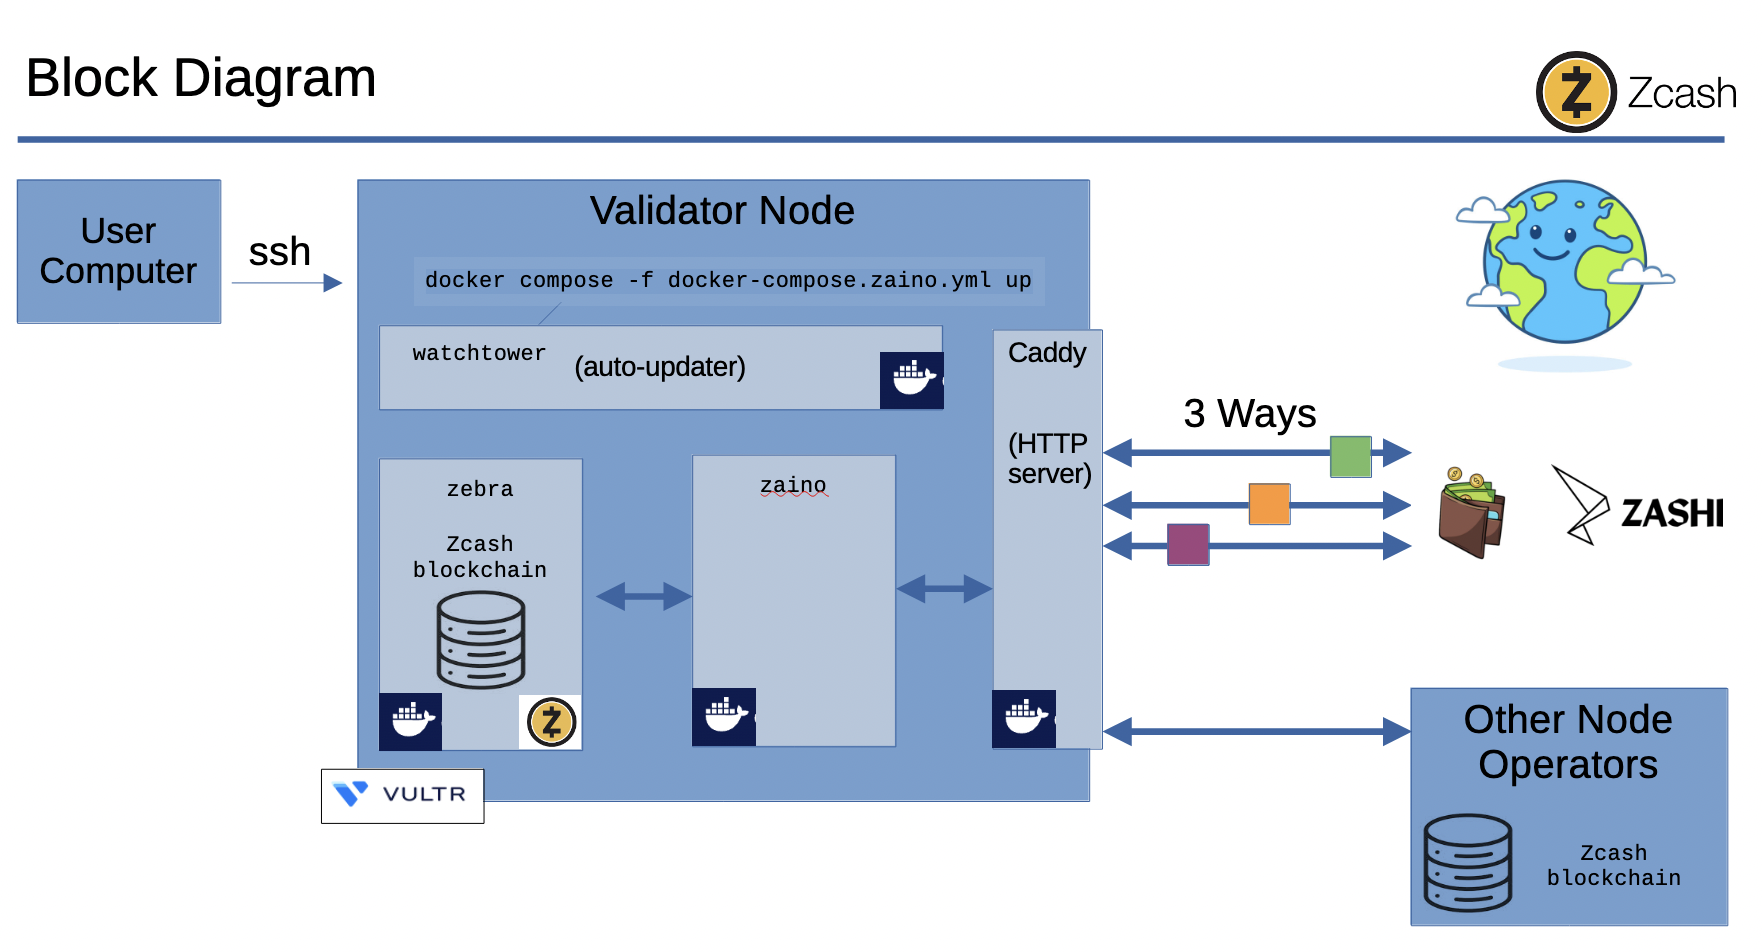
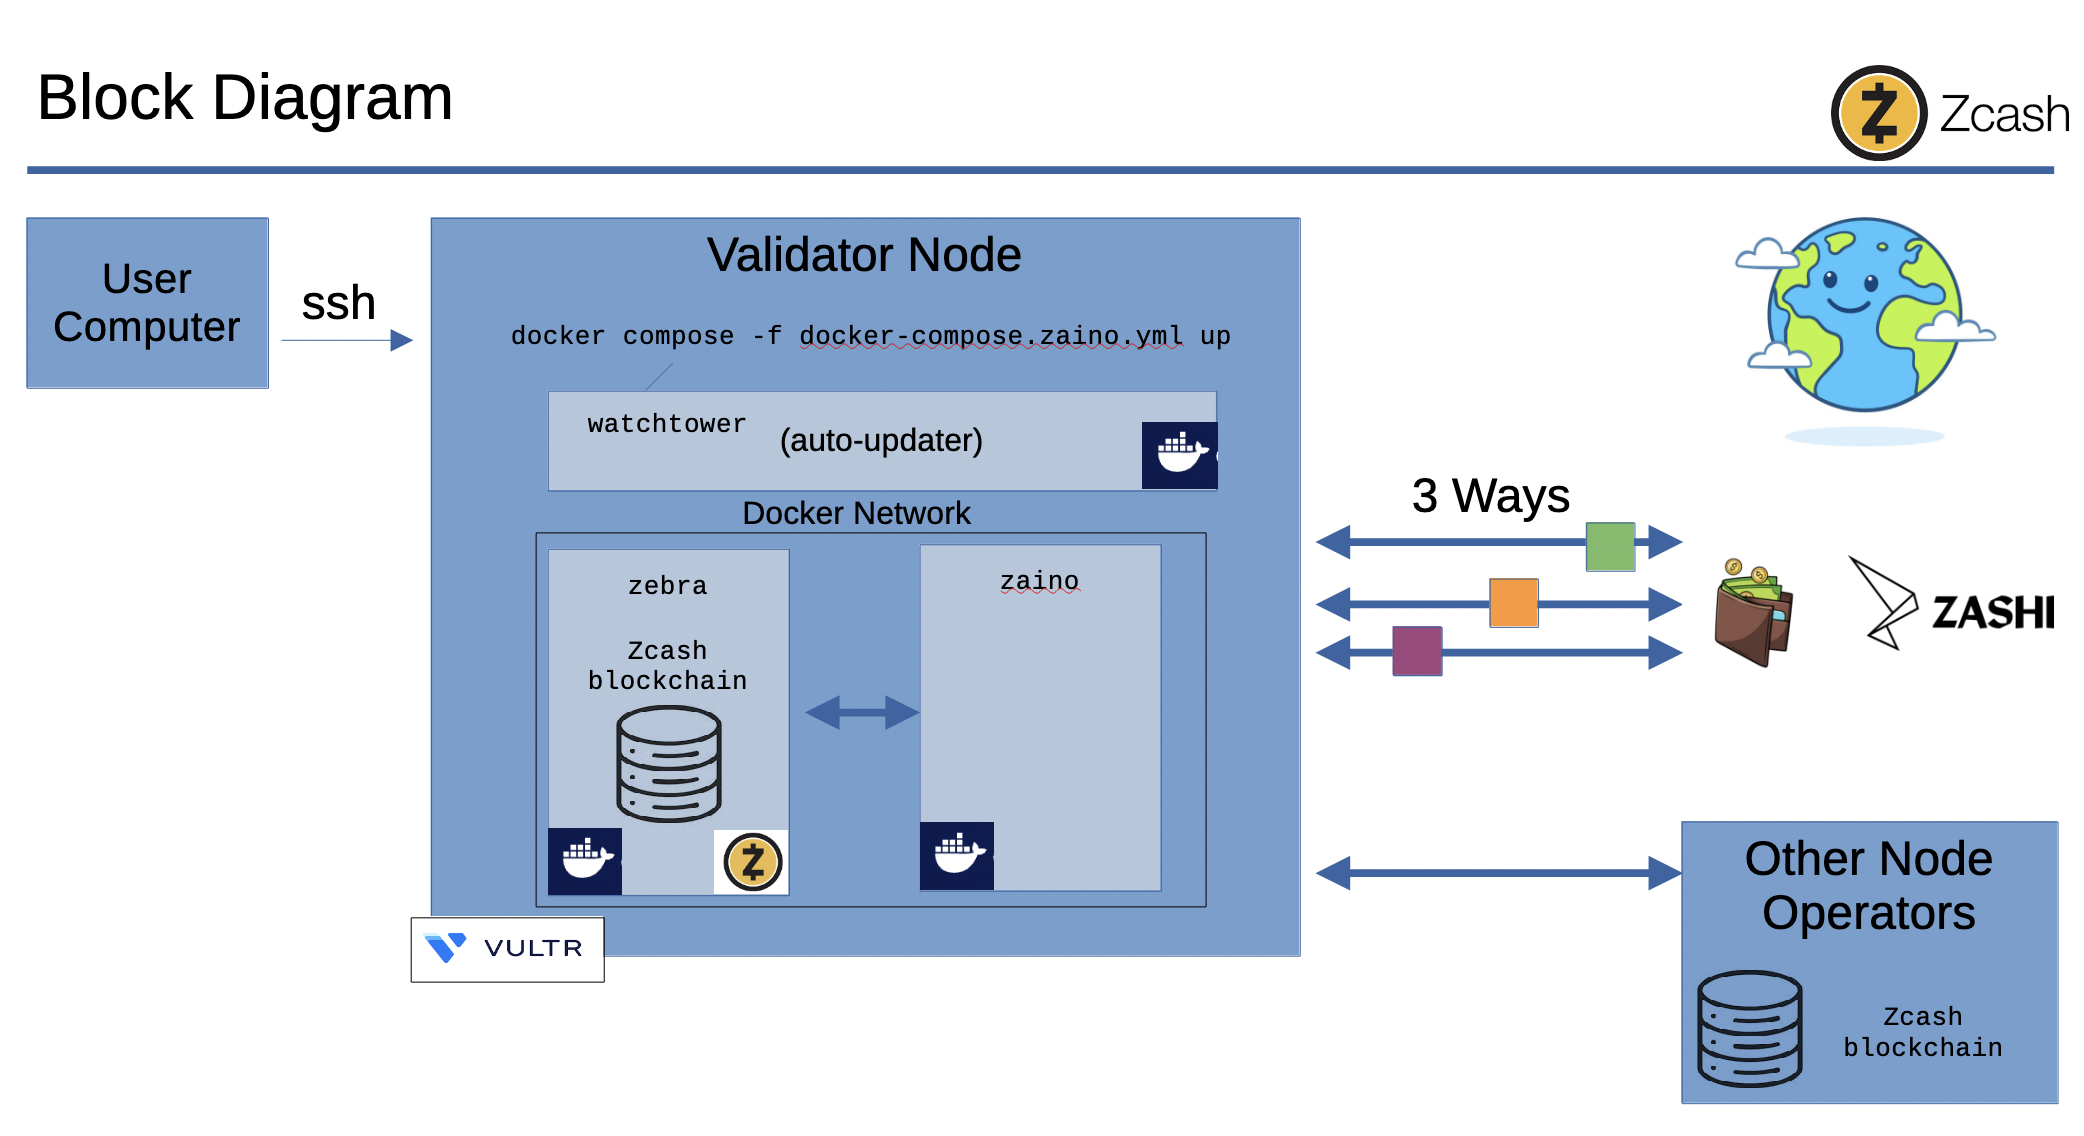
Updated focusing on refine the docker specific documentation.

diff --git a/docker/README.md b/docker/README.md
@@ -1,25 +1,30 @@
 # Docker Zcash Light Wallet
 
+Welcome to the Docker-side of this Zcash node hosting repository. 
+
+> [!NOTE]
+> If you came from [class-1-sync](../docs/class-1-sync.md): great!
+> If not, don't skip our [workshop overview](../docs/README.md).
+
 ## Overview of the Components
-![Block diagram ](block_diagram2.png)
+Let's start with an overview of each component, and a summary of what they do. 
+![Block diagram](../docs/images/block_diagram.png)
 
 Zebra is an independent, Rust-based implementation of the Zcash node software, developed by the Zcash Foundation. It is designed for security, correctness, and performance. Zebra fully validates the Zcash blockchain, handles peer-to-peer networking, and implements consensus rules, making it suitable for running validator nodes and contributing to the decentralization and resilience of the Zcash network.
 
 Zaino is a lightweight codebase in GO for building Zcash-related infrastructure. Its design emphasizes clear interfaces and extensibility, making it an interface between Zebra node software and lightwallets, auditing services, and other ecosystem tools.
 
-Caddy is a modern, easy-to-use web server and reverse proxy that automatically manages HTTPS certificates. It will be used to securely expose our Zcash nodes to the internet with minimal configuration.
-
 Watchtower is an automated tool for monitoring and updating running Docker containers. It ensures your Zcash node and related services stay up-to-date by automatically pulling and applying new container images with minimal downtime.
 
 Zashi is a lightweight, open-source Zcash lightwallet app designed for privacy and ease of use. It could connect your own node to the Zcash blockchain, allowing you to manage Zcash funds securely from your desktop or mobile device.
 
-## Install Docker on your server/VM and check out this source code repository.
+## Getting Started
+
+Install Docker on your server/VM and check out this source code repository.
 
 ```
 git clone https://github.com/zecrocks/zcash-stack.git
 cd zcash-stack/docker
-docker compose up
-# Or, try it with Zaino, the replacement for lightwalletd: (don't do both)
 docker compose -f docker-compose.zaino.yml up
 ```
 
@@ -27,66 +32,63 @@ To run deattached in the background even if ssh connection drops:
 ```
 docker compose -f docker-compose.zaino.yml up --detach
 ```
-
-## Troubleshooting and Docker Down
-- Stop and remove all containers, networks, and volumes for this project
-```
-docker compose -f docker-compose.zaino.yml down -v --remove-orphans
-```
-
-- Remove all unused containers, networks, images, and volumes
-```
-docker system prune -a --volumes -f
-```
-
-- Remove any remaining volumes specifically
-```
-docker volume prune -f
-```
-
-- Remove any remaining networks
-```
-docker network prune -f
-```
-
-- Restart Docker daemon (optional but can help with network issues)
-```
-systemctl restart docker
-```
-
-- Docker composer down
+To stop the system, but with removing the volumes that get created. 
 ```
 docker compose -f docker-compose.zaino.yml down
 ```
 
-- All together now!
+## Troubleshooting and Docker Down
+As happens in life, there are often troubles and times when a clean start is desired. Here are some helpful debugging options for stopping the Docker continers. 
+
+Stop and remove all containers, networks, and volumes for this project
+```
+docker compose -f docker-compose.zaino.yml down -v --remove-orphans
+```
+
+Remove all unused containers, networks, images, and volumes
+```
+docker system prune -a --volumes -f
+```
+
+Remove any remaining volumes specifically
+```
+docker volume prune -f
+```
+
+Remove any remaining networks
+```
+docker network prune -f
+```
+
+Restart Docker daemon (optional but can help with network issues)
+```
+systemctl restart docker
+```
+
+All together now! Hard removal of everything.
 ```
 docker compose -f docker-compose.zaino.yml down -v --remove-orphans && docker system prune -a --volumes -f && docker volume prune -f && docker network prune -f
 ```
 
-
 ## Sync the Blockchain
-### Lengthy Process
-The blockchain will be synced into the ```data``` directory, which can be useful for copying it to other devices.
+> [!NOTE] 
+> This Docker file will begin to sync the blockchain.
 
-It will take several days to sync depending on the speed of your computer and internet connection.
+When the Docker containers are started and running properly for the first time, they will begin to sync the blockchain. This means re-verifying each block in the entire chain. As you might imagine, this takes quiet some time. Here too, there are options. 
 
-### Speedy Process
-In a hurry? We host a snapshot of the blockchain that you can download faster than synchronizing it from scratch. It's not the purest way to synchronize, but it can save you over a week - especially if you are on a slow device.
+### Lengthy Process: Let it Run
+You could let the containers run, and sync the blockchain as designed. The blockchain will be synced into the ```data``` directory, which can be useful for copying it to other devices.
 
+It will take several days to sync depending on the speed of your computer and internet connection. This is the most secure way of doing it.
+
+### Speedy Process: Download a Snapshot
+In a hurry? We host a snapshot of the blockchain that you can download faster than synchronizing it from scratch. It's not the purest way to synchronize, as you are trusting (aka assuming) that this snapshot is accurate, but it can save you over a week - especially if you are on a slow device.
+
+Run the [`download-snapshot.sh`](download-snapshot.sh) first, then Docker compose up.
 ```
-# Run this to download our blockchain snapshot, then run "docker compose up" after it is complete.
 ./download-snapshot.sh
-```
-## Connect your node to the world
-To connect to it from a wallet, you'll need to expose lightwalletd's port to the world.
-
-There are several ways to do this. The quickest is to use Tailscale Funnel or Cloudflare Tunnel.
-
-For Cloudflare Tunnel, [after installing it](https://developers.cloudflare.com/cloudflare-one/connections/connect-networks/downloads/), run this:
-
-```
-cloudflared tunnel --url http://localhost:9067
+docker compose -f docker-compose.zaino.yml up
 ```
 
-This is a work in progres. More detailed instructions are on the way!
+## Next Steps
+Take a look at our documentation in [class-2-connect](../docs/class-2-connect.md) to learn about connecting your new node to the world. 🌎

diff --git a/docs/README.md b/docs/README.md
@@ -6,7 +6,7 @@ The [`docs` folder contains workshop documentation](./docs/) and is organized in
     1. Set up a virtual machine (VM) on hardware of your choice.
     1. Launch the Zcash service containers via Docker or Kubernetes on your VM.
         - Clone our [workshop Git repository](https://github.com/zecrocks/zcash-stack).
-        - Or [our competitors' repository](https://github.com/stakeholdrs/zcash-infra).
+        - Or [our friendly-competitor's repository](https://github.com/stakeholdrs/zcash-infra).
     1. Synchronize your node with the Zcash network's blockchain (from scratch in ~10 days or from [`download-snapshot.sh`](../docker/docwnload-snapshop.sh) in ~10 hours).
 1. [Connect](./class-2-connect.md) - Connect your node to the Zcash network.
     1. Optionally, use one of several technologies to improve the privacy that you, as a node operator, have for running your node and to connecting clients.
